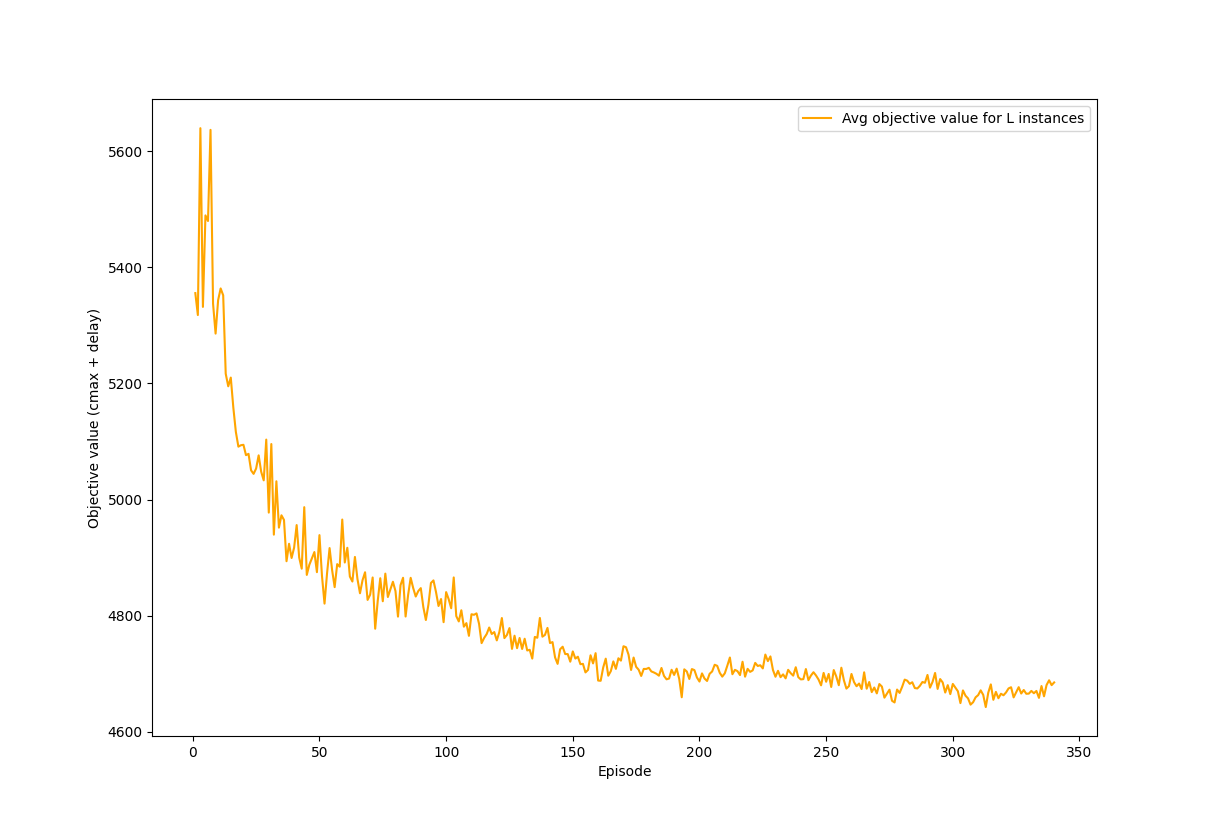
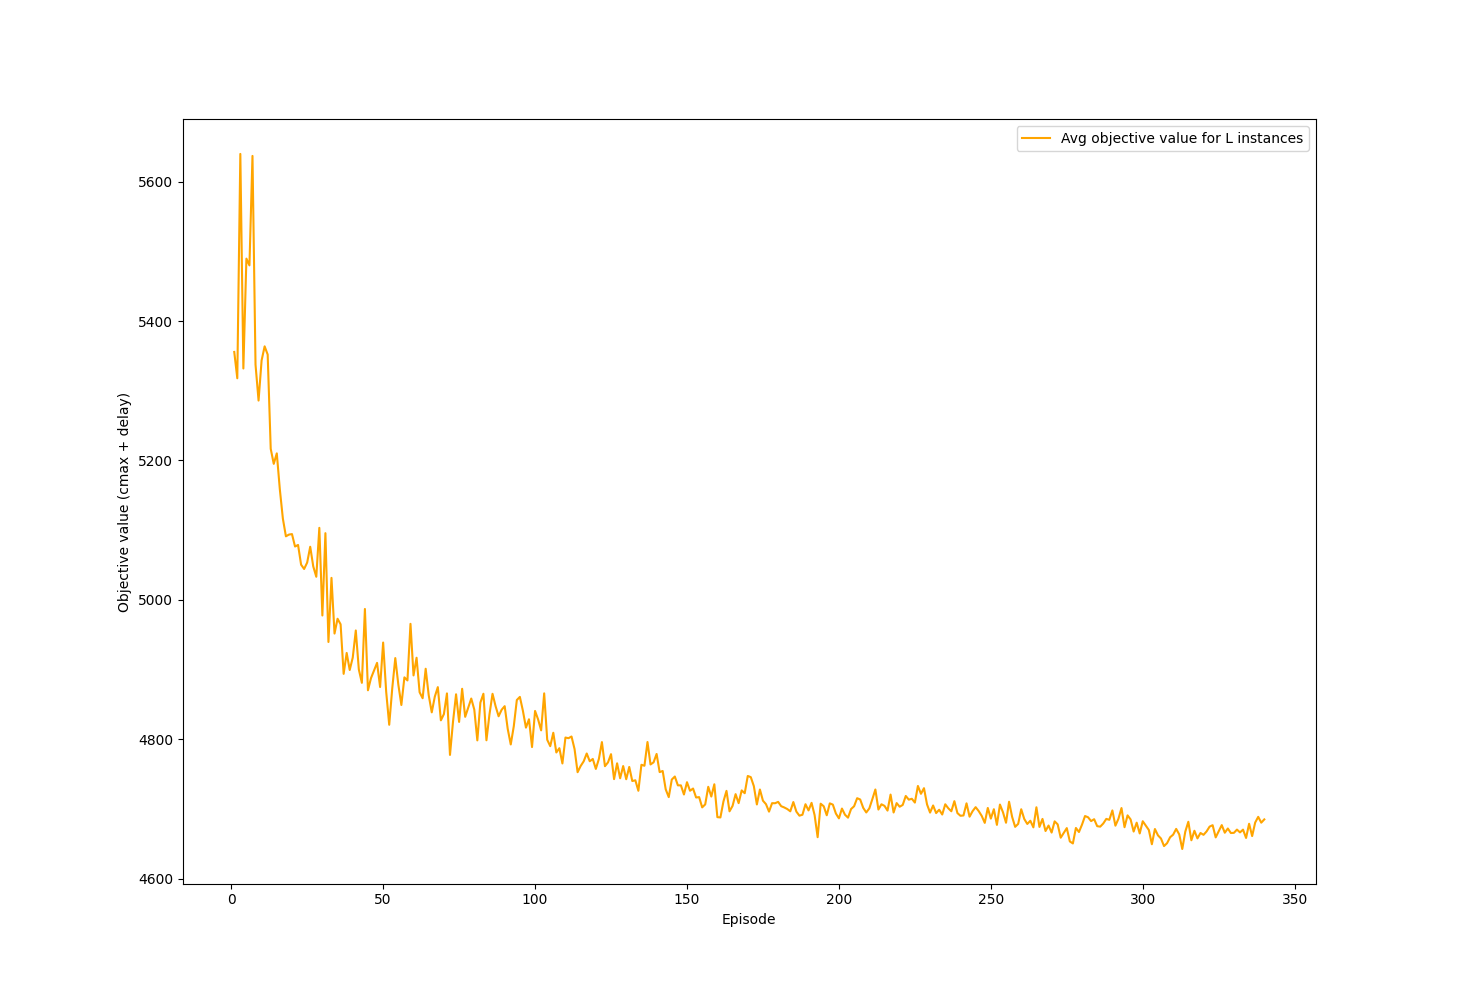
Boxplots

diff --git a/result_analysis.py b/result_analysis.py
@@ -1,7 +1,8 @@
 import pandas as pd
 import numpy as np
 import os
-import time
+import matplotlib.pyplot as plt
+import seaborn as sns
 
 from utils.common import format_seconds, format_time, format_percent, format_int
 
@@ -26,6 +27,14 @@ gnn_approches:        list[str] = ["basic_gnn_solution", "basic_gnn_solution_imp
 exact_approaches:     list[str] = [EXACT]
 heuristic_approaches: list[str] = ["heuristic_solution", "TS_solution"]
 all_approaches:       list[str] = exact_approaches + gnn_approches + heuristic_approaches
+
+NAME_MAPPING: dict[str, str] = {
+            "basic_gnn_solution": "GNN",
+            "basic_gnn_solution_improved": "Improved GNN",
+            "basic_gnn_solution_improved_beam": "Complete agent",
+            "gnn_solution": "GAT",
+            "heuristic_solution": "Local Search",
+            "TS_solution": "Nested Tabu Search"}
 
 def _stats_6(series: pd.Series):
     s = pd.to_numeric(series, errors="coerce").dropna()
@@ -129,6 +138,40 @@ def detailed_results_per_size(file_per_method: dict, variables: list):
                     df_result[f'{method}_dev_{var}'] = dev
             if 'Computing_time' in df_m.columns:
                 df_result[f'{method}_Computing_time'] = df_result[INSTANCE_ID].map(df_m['Computing_time'])
+        plot_methods = gnn_approches + heuristic_approaches
+        plot_data = []
+        for method in plot_methods:
+            cmax_col = f'{method}_dev_Cmax'
+            delay_col = f'{method}_dev_Delay'
+            if cmax_col in df_result.columns and delay_col in df_result.columns:
+                display_name = NAME_MAPPING.get(method, method)
+                for val in df_result[cmax_col].dropna():
+                    plot_data.append({'Method': display_name, 'Metric': 'Cmax', 'Deviation (%)': val * 100})
+                for val in df_result[delay_col].dropna():
+                    plot_data.append({'Method': display_name, 'Metric': 'Total delay (δ)', 'Deviation (%)': val * 100})
+        if plot_data:
+            df_plot = pd.DataFrame(plot_data)
+            order = [NAME_MAPPING[m] for m in plot_methods if m in NAME_MAPPING]
+            plt.figure(figsize=(12, 6))
+            sns.boxplot(
+                data=df_plot, 
+                x='Method', 
+                y='Deviation (%)', 
+                hue='Metric',
+                order=order,
+                palette={'Cmax': 'orange', 'Total delay (δ)': 'skyblue'},
+                showfliers=False)
+            plt.title(f'Deviation per objective for Size: {size.upper()}')
+            plt.ylabel('Deviation from Exact (%)')
+            plt.xlabel('')
+            plt.xticks(rotation=15)
+            plt.grid(axis='y', linestyle='--', alpha=0.7)
+            plt.legend(title='Metric')
+            plot_path = os.path.join(results_path, f'boxplot_comparison_{size}.png')
+            plt.tight_layout()
+            plt.savefig(plot_path)
+            plt.close()
+            print(f"[INFO] Boxplot saved to {plot_path}")  
         present_cols = [c for c in base_order if c in df_result.columns]
         df_out = df_result[[INSTANCE_ID] + [c for c in present_cols if c != INSTANCE_ID]]
         out_csv = os.path.join(results_path, f'detailed_results_{size}.csv')

diff --git a/curve_building.py b/curve_building.py
@@ -17,8 +17,8 @@ if __name__ == "__main__":
     args               = parser.parse_args()
     path: str          = args.path +'/data/training/'   
     interactive: bool  = False
-    W: float           = 12.19
-    H: float           = 8.28
+    W: float           = 14.628
+    H: float           = 9.936
 
     # CREATE CURVES
     loss: Loss        = Loss(xlabel="Episode", ylabel="Loss", title="Huber Loss (policy network)", color="blue", show=interactive, width=W, height=H)
